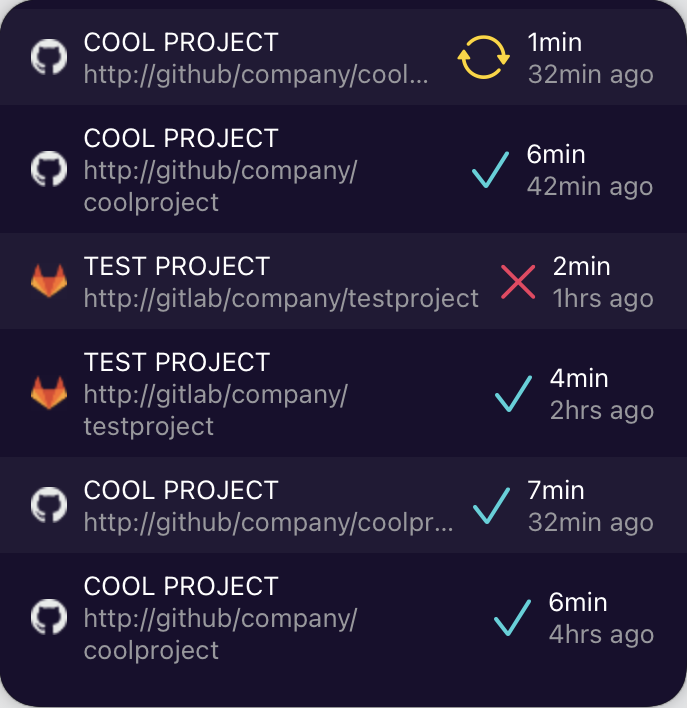
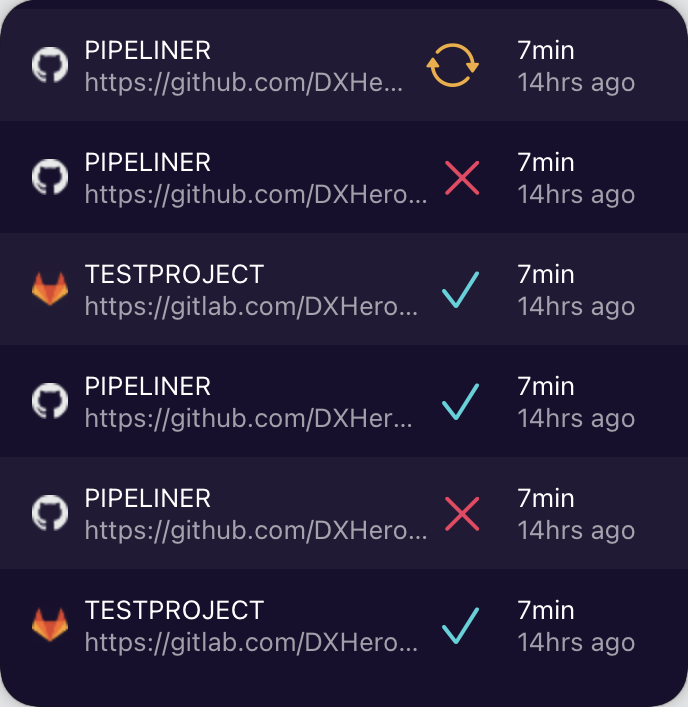
fix: status alignment in widget

diff --git a/PipelinerWidget/PipelineRowView.swift b/PipelinerWidget/PipelineRowView.swift
@@ -19,27 +19,27 @@ struct PipelineRowView: View {
             VStack(alignment: .center, content: {
                 HStack(content: {
                     Image(nsImage: pipeline.serviceType.serviceIcon(colorScheme: colorScheme))
-                    Text(pipeline.repositoryName.uppercased())
+                    Text(pipeline.repositoryName.uppercased()).lineLimit(1)
                 }).padding(.top, 5)
-                Text(pipeline.ref).foregroundColor(.gray)
+                Text(pipeline.ref).foregroundColor(Color("white-60")).lineLimit(1)
                 Spacer()
                 if(pipeline.status == PipelineStatus.FAILED) {
                     Image(systemName: "xmark").font(.system(size: 60)).foregroundColor(Color("error"))
                 } else if(pipeline.status == PipelineStatus.SUCCESS) {
                     Image(systemName: "checkmark").font(.system(size: 60)).foregroundColor(Color("ligtteal"))
                 } else {
-                    Image(systemName: "arrow.triangle.2.circlepath").font(.system(size: 60)).foregroundColor(.yellow)
+                    Image(systemName: "arrow.triangle.2.circlepath").font(.system(size: 60)).foregroundColor(Color("warning"))
                 }
                 Spacer()
                 Text(pipeline.duration)
-                Text("\(pipeline.age) ago").foregroundColor(.gray)
+                Text("\(pipeline.age) ago").foregroundColor(Color("white-60"))
             })
         default:
             HStack(content: {
                 Image( nsImage: pipeline.serviceType.serviceIcon(colorScheme: colorScheme))
                 VStack(alignment: .leading, content: {
-                    Text(pipeline.repositoryName.uppercased())
-                    Text(pipeline.ref).foregroundColor(.gray)
+                    Text(pipeline.repositoryName.uppercased()).lineLimit(1)
+                    Text(pipeline.ref).foregroundColor(Color("white-60")).lineLimit(1)
                 })
                 Spacer()
                 if(pipeline.status == PipelineStatus.FAILED) {
@@ -47,13 +47,13 @@ struct PipelineRowView: View {
                 } else if(pipeline.status == PipelineStatus.SUCCESS) {
                     Image(systemName: "checkmark").font(.title).foregroundColor(Color("lightteal"))
                 } else {
-                    Image(systemName: "arrow.triangle.2.circlepath").font(.title).foregroundColor(.yellow)
+                    Image(systemName: "arrow.triangle.2.circlepath").font(.title).foregroundColor(Color("warning"))
                 }
                 VStack(alignment: .leading, content: {
                     Text(pipeline.duration)
-                    Text("\(pipeline.age) ago").foregroundColor(.gray)
-                })
-            }).foregroundColor(Color.white).padding(.horizontal).padding([.vertical], isOdd ? 0 : 8) .background(isOdd ? Color("WidgetBackground") : Color("white-4"))
+                    Text("\(pipeline.age) ago").foregroundColor(Color("white-60"))
+                }).frame(width: 80, height: 40)
+            }).foregroundColor(Color.white).padding(.horizontal).padding([.vertical], isOdd ? 0 : 8).background(isOdd ? Color("WidgetBackground") : Color("white-4"))
         }
     }
 }

diff --git a/PipelinerWidget/PipelinerWidget.swift b/PipelinerWidget/PipelinerWidget.swift
@@ -11,11 +11,11 @@ import Intents
 
 struct Provider: IntentTimelineProvider {
     let service: PipelinerService = PipelinerService()
-
+    
     func placeholder(in context: Context) -> SimpleEntry {
         return SimpleEntry(date: Date(), pipelines: [PipelineResult(id: 1, ref: "test", status: PipelineStatus.FAILED, duration: "54 min", age: "4 min", url: "url", repositoryName: "Cool Project", serviceType: ServiceType.GITHUB)], error: false)
     }
-
+    
     func getSnapshot(for configuration: ConfigurationIntent, in context: Context, completion: @escaping (SimpleEntry) -> ()) {
         let entry: SimpleEntry
         // use mock data
@@ -32,15 +32,15 @@ struct Provider: IntentTimelineProvider {
             default:
                 entry = SimpleEntry(date: Date(), pipelines: [PipelineResult(id: 1, ref: "fix:test", status: PipelineStatus.SUCCESS, duration: "4 min", age: "54 min", url: "url", repositoryName: "Cool Project", serviceType: ServiceType.GITHUB), PipelineResult(id: 2, ref: "feat: make it cooler", status: PipelineStatus.SUCCESS, duration: "6 min", age: "4 hours", url: "url", repositoryName: "Second Project", serviceType: ServiceType.GITHUB), PipelineResult(id: 3, ref: "chore: clean up", status: PipelineStatus.FAILED, duration: "9 min", age: "8 hours", url: "url", repositoryName: "Cool Project", serviceType: ServiceType.GITHUB)
                 ], error: false)
-        }
-        // use real data
+            }
+            // use real data
         } else {
             entry = SimpleEntry(date: Date(), pipelines: try! service.getPipelines(pipelineCount: getPipelineCount(context: context)), error: false)
         }
         completion(entry)
     }
-
-   func getTimeline(for configuration: ConfigurationIntent, in context: Context, completion: @escaping (Timeline<Entry>) -> ()) {
+    
+    func getTimeline(for configuration: ConfigurationIntent, in context: Context, completion: @escaping (Timeline<Entry>) -> ()) {
         let now = Date()
         let nextUpdate = Calendar.current.date(byAdding: .minute, value: 1, to: now)!
         let data = try! service.getPipelines(pipelineCount: getPipelineCount(context: context))
@@ -78,14 +78,18 @@ struct PipelinerWidgetEntryView : View {
     var body: some View {
         ZStack {
             Color("WidgetBackground").edgesIgnoringSafeArea(.all)
-            PipelineListView(pipelines: entry.pipelines, size: family)
+            if(entry.pipelines.isEmpty){
+                Text("No data").foregroundColor(Color("white-60"))
+            } else {
+                PipelineListView(pipelines: entry.pipelines, size: family)
+            }
         }
     }}
 
 @main
 struct PipelinerWidget: Widget {
     let kind: String = "PipelinerWidget"
-
+    
     var body: some WidgetConfiguration {
         IntentConfiguration(kind: kind, intent: ConfigurationIntent.self, provider: Provider()) { entry in
             PipelinerWidgetEntryView(entry: entry)

diff --git a/Pipeliner/Views/PipelineDetailView.swift b/Pipeliner/Views/PipelineDetailView.swift
@@ -16,10 +16,9 @@ struct PipelineDetailView: View {
             Image( nsImage: pipeline.serviceType.serviceIcon(colorScheme: colorScheme))
             VStack(alignment: .leading, content: {
                 HStack(content: {
-                    Text(pipeline.repositoryName.uppercased())
+                    Text(pipeline.repositoryName.uppercased()).lineLimit(1)
                 })
-                Text(pipeline.ref).foregroundColor(.gray).lineLimit(nil)
-                
+                Text(pipeline.ref).foregroundColor(Color("white-60")).lineLimit(1)
             })
             Spacer()
             VStack(alignment: .leading, content: {
@@ -29,14 +28,14 @@ struct PipelineDetailView: View {
                     Image(systemName: "checkmark").font(.title).foregroundColor(Color("lightteal"))
                 } else {
                     VStack(alignment: .trailing, content: {
-                        Text(pipeline.status.rawValue).foregroundColor(.gray)
-                        Image(systemName: "arrow.triangle.2.circlepath").font(.title).foregroundColor(.yellow)
+                        Text(pipeline.status.rawValue).foregroundColor(Color("white-60"))
+                        Image(systemName: "arrow.triangle.2.circlepath").font(.title).foregroundColor(Color("warning"))
                     })
                 }
             })
             VStack(alignment: .leading, content: {
                 Text(pipeline.duration)
-                Text("\(pipeline.age) ago").foregroundColor(.gray)
+                Text("\(pipeline.age) ago").foregroundColor(Color("white-60"))
             }).frame(width: 80, height: 40)
             Link(destination: URL(string: pipeline.url)!) {
                 Image(systemName: "link").font(.title2).foregroundColor(.blue)
